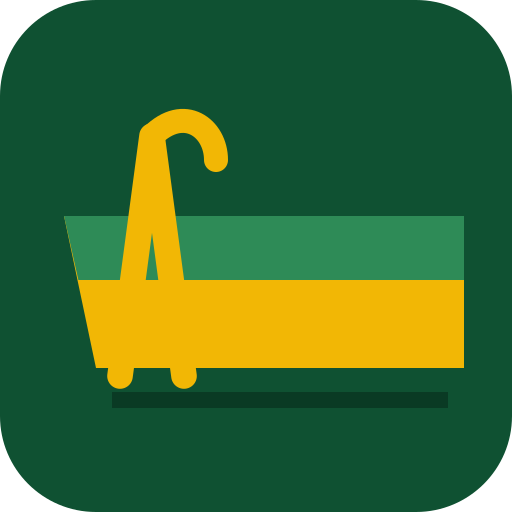
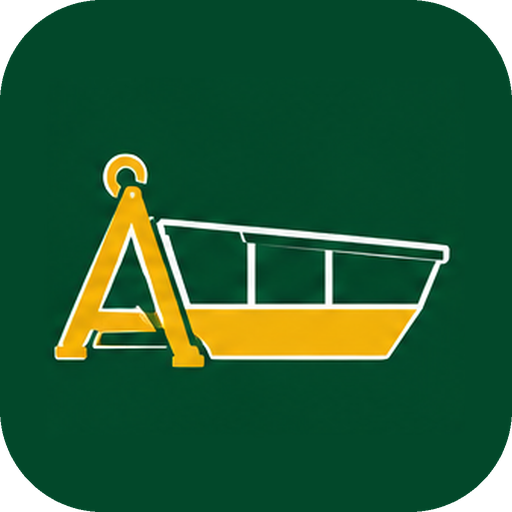
الشعار الرسمي لتنظيفكو المحلية في الترويسة والأيقونات ولوحة التحكم، وإظهار أخطاء البناء في GitHub
Claude-Session: https://claude.ai/code/session_01PwMHy7rodPStQmEhfY3UZ3

diff --git a/public/admin/index.html b/public/admin/index.html
@@ -6,7 +6,7 @@
     <meta name="robots" content="noindex, nofollow" />
     <meta name="theme-color" content="#0f5132" />
     <title>لوحة التحكم — تنظيفكو المحلية</title>
-    <link rel="icon" href="../favicon.svg" type="image/svg+xml" />
+    <link rel="icon" href="../favicon.ico" sizes="48x48" />
     <link rel="preload" href="../fonts/cairo-arabic-400-normal.woff2" as="font" type="font/woff2" crossorigin />
     <style>
       /* خط الموقع نفسه (Cairo) مستضاف محلياً */
@@ -66,7 +66,7 @@
   </head>
   <body>
     <div id="boot" aria-live="polite">
-      <img src="../favicon.svg" alt="" />
+      <img src="../icon-192.png" alt="" />
       <b>تنظيفكو المحلية</b>
       <span>جارٍ تحميل لوحة التحكم…</span>
     </div>

diff --git a/src/styles/global.css b/src/styles/global.css
@@ -10,9 +10,9 @@
   --color-paper: #f7f6f1;
   --color-sand: #eceadf;
   --color-line: #d8d6c8;
-  --color-brand: #0f5132;
-  --color-brand-dark: #0a3a24;
-  --color-sun: #f2b705;
+  --color-brand: #03482a;
+  --color-brand-dark: #022e1b;
+  --color-sun: #f0b414;
   --color-wa: #1f9d55;
 }
 
